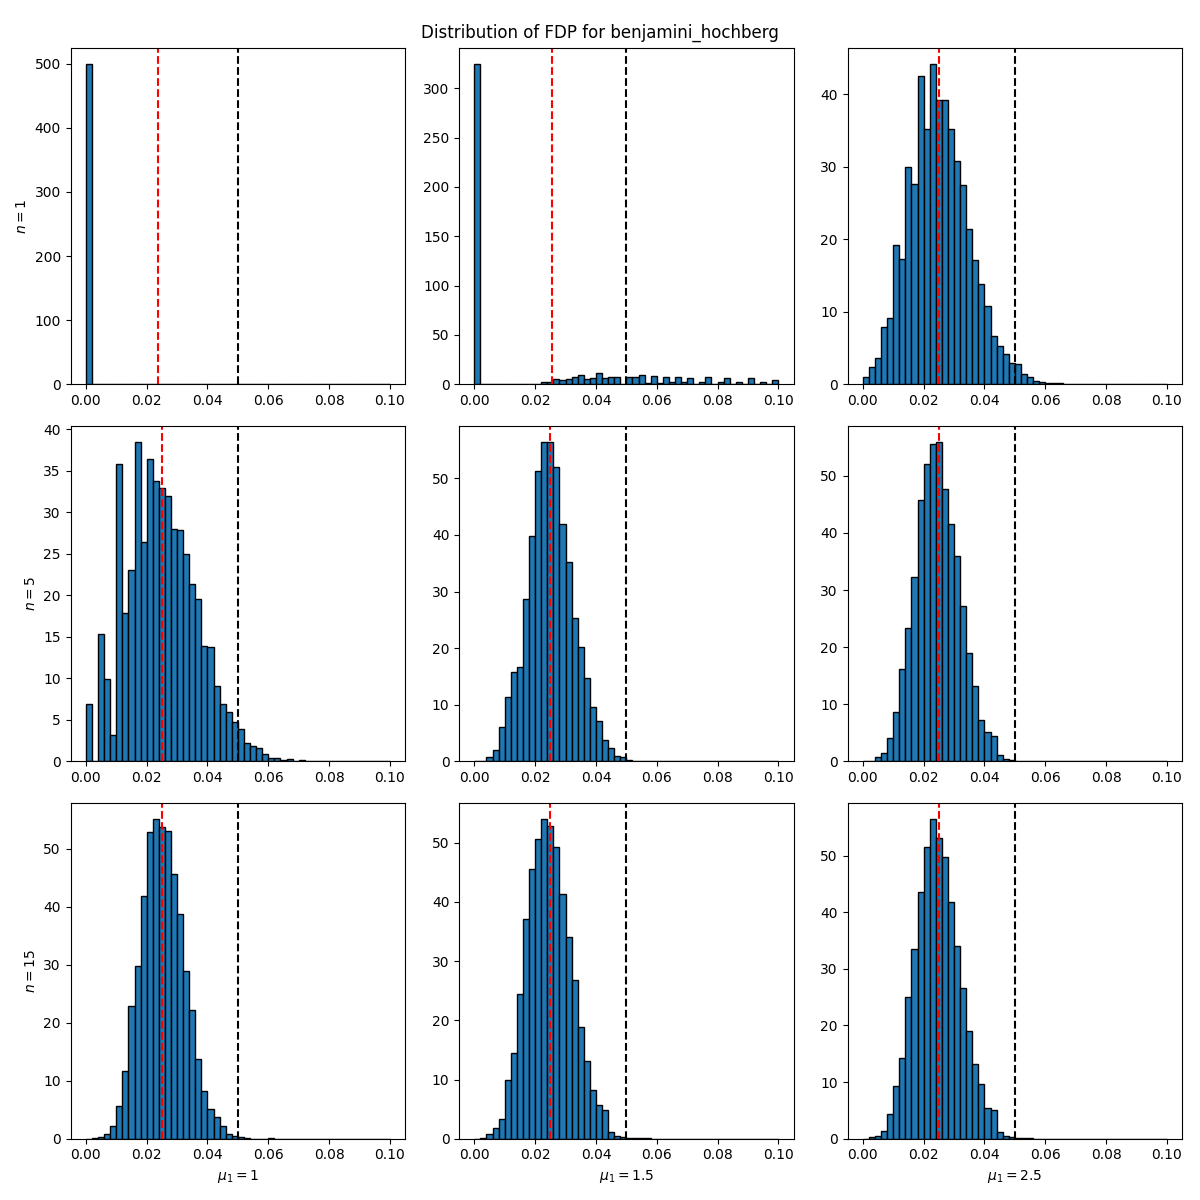
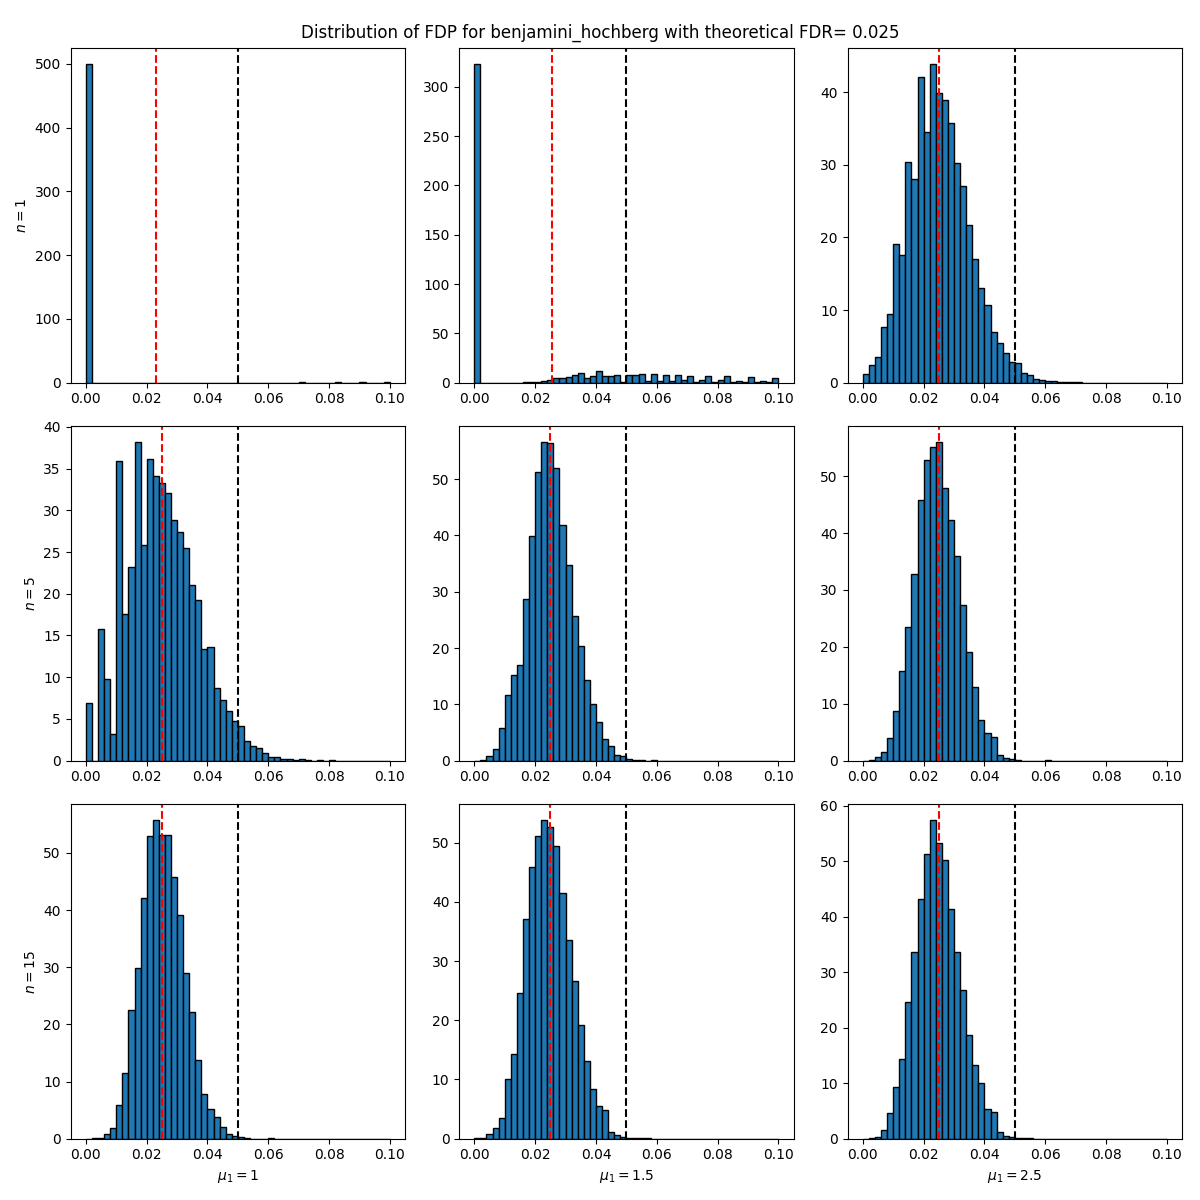
Compute theoretical FDR for benjamini-hochberg

diff --git a/main.py b/main.py
@@ -1,5 +1,5 @@
 from src.hypotheses import z_test
-from src.utils import get_pvalues_z_test, get_t_statistics_z_test, cdf_pvalues_z_test_h1, FDP, FWE
+from src.utils import get_pvalues_z_test, get_t_statistics_z_test, cdf_pvalues_z_test_h1, eFDP, eFWE, FDR_bh
 
 import os
 
@@ -64,10 +64,10 @@ if not os.path.isfile(figure_2):
 
 if not os.path.isfile(figures_3[0]) or not os.path.isfile(figures_4[0]):
     alpha = 0.05
+    m = 1000
+    pi0 = 0.5
     mu0 = 0
     mu1 = [1, 1.5, 2.5]
-    m0 = 500
-    m1 = 500
     n = [1, 5, 15]
     reps = 10000
 
@@ -75,24 +75,24 @@ if not os.path.isfile(figures_3[0]) or not os.path.isfile(figures_4[0]):
     figs4 = [plt.subplots(3, 3, figsize=(12, 12)) for i in range(4)]
     for i, n_ in enumerate(n):
         for j, mu1_ in enumerate(mu1):
-            results = z_test(mu0, mu1_, m0, m1, n=n_, reps=reps, alpha=alpha)
+            results = z_test(m, pi0, mu0, mu1_, n=n_, reps=reps, alpha=alpha)
             for k, algorithm in enumerate(['bonferroni', 'holm_bonferroni', 'hochberg', 'benjamini_hochberg']):
-                fwe = FWE(results['true'], results[algorithm])
-                fwer = fwe.mean()
+                efwe = eFWE(results['true'], results[algorithm])
+                efwer = efwe.mean()
                 ax = figs3[k][1][i][j]
-                ax.hist(fwe, bins=2, range=(0, 1), density=True, edgecolor='black')
-                ax.axvline(x=fwer, color='r', linestyle='dashed')
+                ax.hist(efwe, bins=2, range=(0, 1), density=True, edgecolor='black')
+                ax.axvline(x=efwer, color='r', linestyle='dashed')
                 ax.axvline(x=alpha, color='k', linestyle='dashed')
                 if j == 0:
                     ax.set_ylabel(fr'$n = {n_}$')
                 if i == 2:
                     ax.set_xlabel(fr'$\mu_1 = {mu1_}$')
 
-                fdp = FDP(results['true'], results[algorithm])
-                fdr = fdp.mean()
+                efdp = eFDP(results['true'], results[algorithm])
+                efdr = efdp.mean()
                 ax = figs4[k][1][i][j]
-                ax.hist(fdp, bins=50, range=(0, alpha * 2), density=True, edgecolor='black')
-                ax.axvline(x=fdr, color='r', linestyle='dashed')
+                ax.hist(efdp, bins=50, range=(0, alpha * 2), density=True, edgecolor='black')
+                ax.axvline(x=efdr, color='r', linestyle='dashed')
                 ax.axvline(x=alpha, color='k', linestyle='dashed')
                 if j == 0:
                     ax.set_ylabel(fr'$n = {n_}$')
@@ -106,6 +106,9 @@ if not os.path.isfile(figures_3[0]) or not os.path.isfile(figures_4[0]):
         fig.savefig(figures_3[k])
 
         fig = figs4[k][0]
-        fig.suptitle(fr'Distribution of FDP for {algorithm}')
+        if k == 3:
+            fig.suptitle(fr'Distribution of FDP for {algorithm} with theoretical FDR= {FDR_bh(pi0, alpha)}')
+        else:
+            fig.suptitle(fr'Distribution of FDP for {algorithm}')
         fig.tight_layout()
         fig.savefig(figures_4[k])

diff --git a/src/utils.py b/src/utils.py
@@ -20,14 +20,14 @@ def cdf_pvalues_z_test_h1(pvalues, mu0, mu1, n=1):
     return 1 - norm.cdf(-inv_pvalues - mean_h1) + norm.cdf(inv_pvalues - mean_h1)
 
 
-def FWE(true, pred):
+def eFWE(true, pred):
     "Empirical family-wise error"
     false_reject = pred.copy()
     false_reject *= (1 - true)
     return np.any(false_reject, axis=-1).astype(int)
 
 
-def FDP(true, pred):
+def eFDP(true, pred):
     "Empirical family-wise error"
     total_reject = pred.sum(axis=-1)
     total_reject[total_reject == 0] = 1
@@ -35,3 +35,7 @@ def FDP(true, pred):
     false_reject *= (1 - true)
     false_reject = false_reject.sum(axis=-1)
     return false_reject / total_reject
+
+
+def FDR_bh(pi0=0.5, alpha=0.05):
+    return pi0 * alpha

diff --git a/src/hypotheses.py b/src/hypotheses.py
@@ -2,14 +2,15 @@ from src.algorithms import bonferroni, holm_bonferroni, hochberg, benjamini_hoch
 from src.utils import get_means, get_t_statistics_z_test, get_pvalues_z_test
 
 
-def z_test(mu0, mu1, m0, m1, n=1, reps=1, alpha=0.05, algorithms='all'):
+def z_test(m, pi0, mu0, mu1, n=1, reps=1, alpha=0.05, algorithms='all'):
     """
     Known variance
     """
     if algorithms == 'all':
         algorithms = [bonferroni, holm_bonferroni, hochberg, benjamini_hochberg]
 
-    m = m0 + m1
+    m0 = int(pi0 * m)
+    m1 = m - m0
     mus = get_means(mu0, mu1, m0, m1)
     t_statistics = get_t_statistics_z_test(m, n, reps, mus, mu0)
     pvalues = get_pvalues_z_test(t_statistics)
